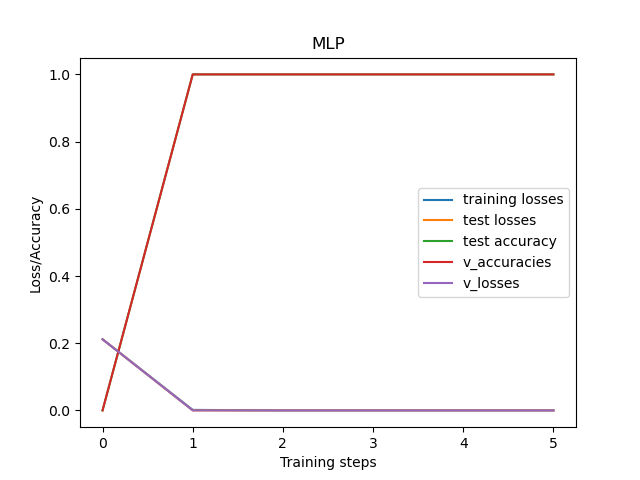
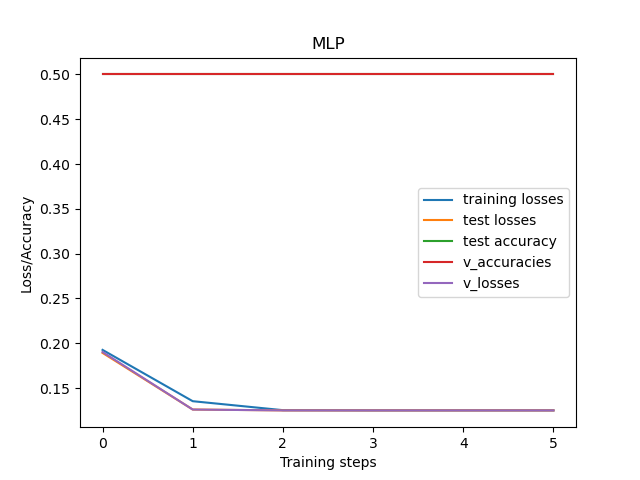
comparing to mlp
- weights load from yaml file now
- mlp with one output stuck at 0.5 too

diff --git a/neurofuzzy_pkg/fuzzyLayers/RuleConsequentLayer.py b/neurofuzzy_pkg/fuzzyLayers/RuleConsequentLayer.py
@@ -91,21 +91,22 @@ class RuleConsequentLayer():
             # Converts yaml document to python object
             config =yaml.load(config_file, Loader=UnsafeLoader)
             weights = np.array(config)
-          #  print(type(weights))
-          # print(weights)
+            print(type(weights))
+            print(weights)
         
         # opt 2: np.save
-        file_name = "config_weights"
-        other_name = os.path.join(save_path, file_name)
-        loaded_weights = np.load(other_name+'.npy')
-        print("sucessfully loaded weights")
-       # print(loaded_weights)
-       # return weights
+    #     file_name = "config_weights"
+    #     other_name = os.path.join(save_path, file_name)
+    #     loaded_weights = np.load(other_name+'.npy')
+    #     print("sucessfully loaded weights")
+    #    # print(loaded_weights)
+    #    # return weights
+        
+        self.weights = weights
         self.train_params = {'weights': self.weights}
-        self.weights = loaded_weights
        
         self.built = True
-        return loaded_weights
+        return weights
 
 
     def build(self, inputs, one_hot_tar):
@@ -190,8 +191,10 @@ class RuleConsequentLayer():
             out = out.write(out.size(), output)
 
             ruleID += 1
-
+       # print("w", self.weights)
+    
         out = out.stack()       
+        #print("out", out)
         self.outputs = out #     saved for training   
 
        # print("out", out)  

diff --git a/model_pkg/MLP.py b/model_pkg/MLP.py
@@ -7,11 +7,9 @@ from tensorflow.keras.regularizers import *
 from tensorflow.keras.optimizers import *
 
 class MLP(tf.keras.Model):
-    """
-    The MLP()-Class is inherited from tf.keras.Model and responsible for:
+    """Inherited from tf.keras.Model and responsible for:
     - describing architecture of NN  
     - forward pass of information  
-    ___________________________________________________________
     """
 
     def __init__(self, dim_hidden, perceptrons_out, activation=tf.sigmoid, k_r='l1_l2', a_r='l2'):
@@ -36,13 +34,16 @@ class MLP(tf.keras.Model):
         # initalizing hidden layers
         n_layers, n_perceptrons = dim_hidden
 
-        self.hidden = [Dense(
-            n_perceptrons,
-            activation=activation,
-            kernel_regularizer=k_r,
-            activity_regularizer=a_r
-            ) for _ in range(n_layers)]
+        self.hidden = [Dense(3)]
 
+        # self.hidden = [Dense(
+        #     n_perceptrons,
+        #     activation=activation,
+        #     kernel_regularizer=k_r,
+        #     activity_regularizer=a_r
+        #     ) for _ in range(n_layers)]
+
+        perceptrons_out = 2
         self.out = Dense(perceptrons_out, activation=tf.sigmoid)
 
 
@@ -85,6 +86,7 @@ class MLP(tf.keras.Model):
 
         for layer in self.hidden:
               inputs = layer(inputs)
+        print("in", inputs)
         inputs = self.out(inputs)
 
         return inputs

diff --git a/neurofuzzy_pkg/utils/MyArcTrainer.py b/neurofuzzy_pkg/utils/MyArcTrainer.py
@@ -230,6 +230,8 @@ class MyArcTrainer(Trainer):
         """
         error_term = []
         targets = targets[0]
+       # print("pred", prediction)
+        #print("tar", targets)
         for cidx,classweight in enumerate(self.arc.RuleConsequentLayer.weights):
           #  print("tar", targets.numpy)
             
@@ -241,8 +243,8 @@ class MyArcTrainer(Trainer):
                 if bool(number)==True:
 
                  #   print("idx", idx)
-                  #  print("tar",targets[idx]  )
-                   # print("out_row[:,idx]", out_row[idx])
+                   # print("tar",targets[idx]  )
+                  #  print("out_row[:,idx]", out_row[idx])
                     error =  0.5*(targets[idx] - out_row[idx])**2
                     error_term.append(error)
                 # else:

diff --git a/main.py b/main.py
@@ -40,12 +40,12 @@ def main():
     n_epochs = 100 
 
     MyModel = Model(DataPipeline(batch_size=batch_size), MyArc(), MyArcTrainer(n_epochs=n_epochs, learning_rate=learning_rate))
-  #  MyModel.build_MyArc() # works 
+   # MyModel.build_MyArc() # works 
    # MyModel.build_MyArc_MF()
     MyModel.trainMyArc()
 
     ## Model with MLP arc
-  # MLPModel = Model(DataPipeline(),  MLP((4,32),2),  Trainer())
+    MLPModel = Model(DataPipeline(),  MLP((2,6),2),  Trainer())
 
    # MLPModel.train()
     # print(MLPModel.summary()) 

diff --git a/model_pkg/Trainer.py b/model_pkg/Trainer.py
@@ -242,7 +242,11 @@ class Trainer():
             error_term (float): output of derived error function
         """
 
-        error_term = tf.reduce_mean(0.5*(prediction - targets)**2)
+        #error_term = tf.reduce_mean(0.5*(prediction - targets)**2)
+
+        print("pred", prediction)
+        print("tar", targets)
+        error_term = 0.5*(prediction - targets)**2
         return error_term
 
 

diff --git a/model_pkg/DataPipeline.py b/model_pkg/DataPipeline.py
@@ -164,6 +164,8 @@ class DataPipeline():
         # make targets binary 
         treshhold = np.mean(targets)        
         targets = targets.apply(lambda x: int(x >= treshhold))
+        print(type(targets))
+        print(targets.head())
         
         self.feature_names = list(df.columns)
 
